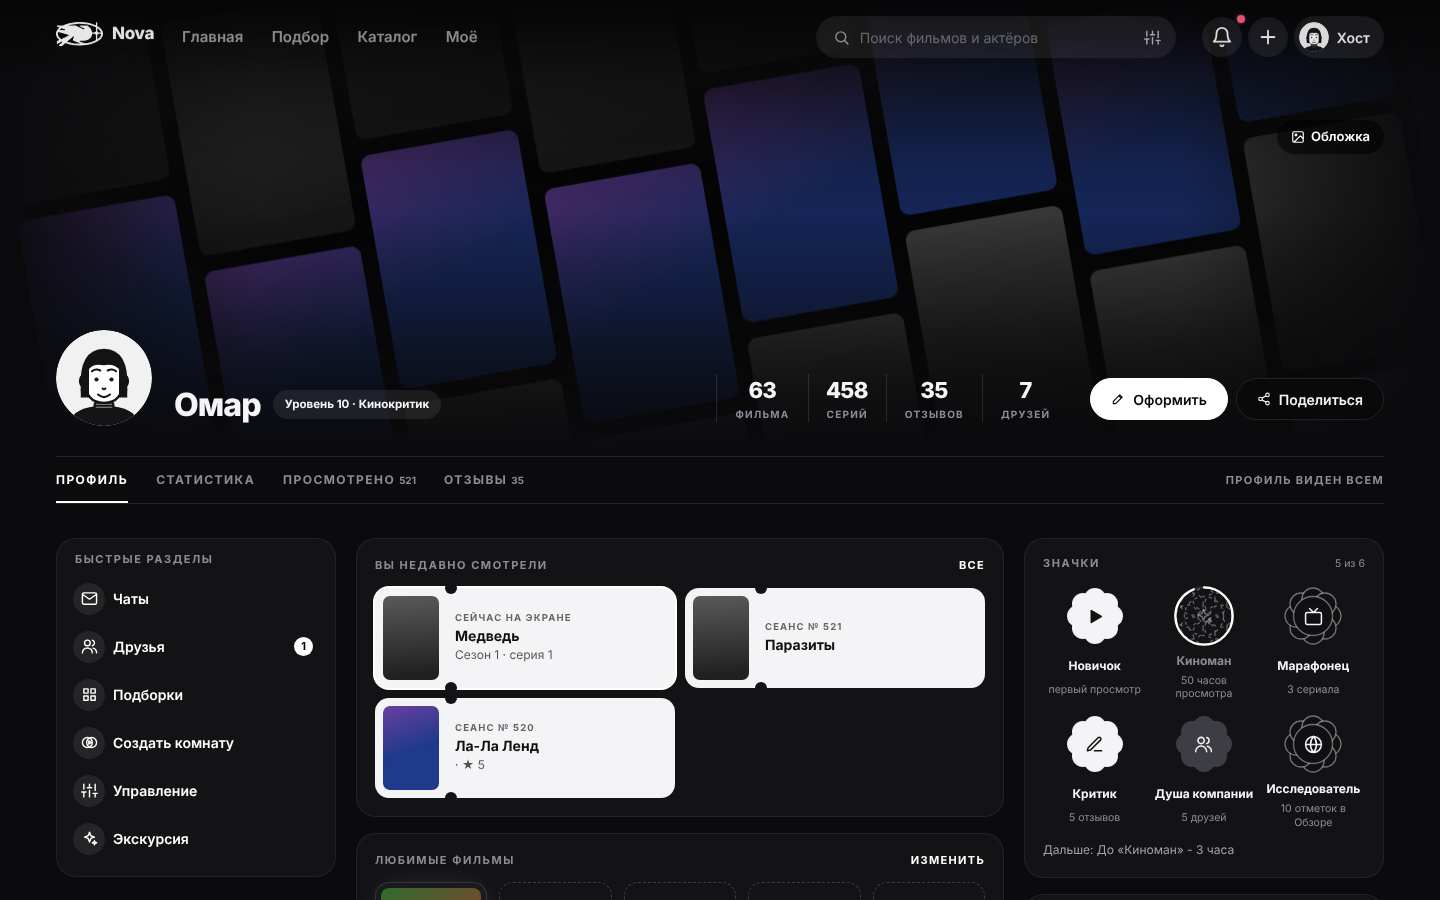
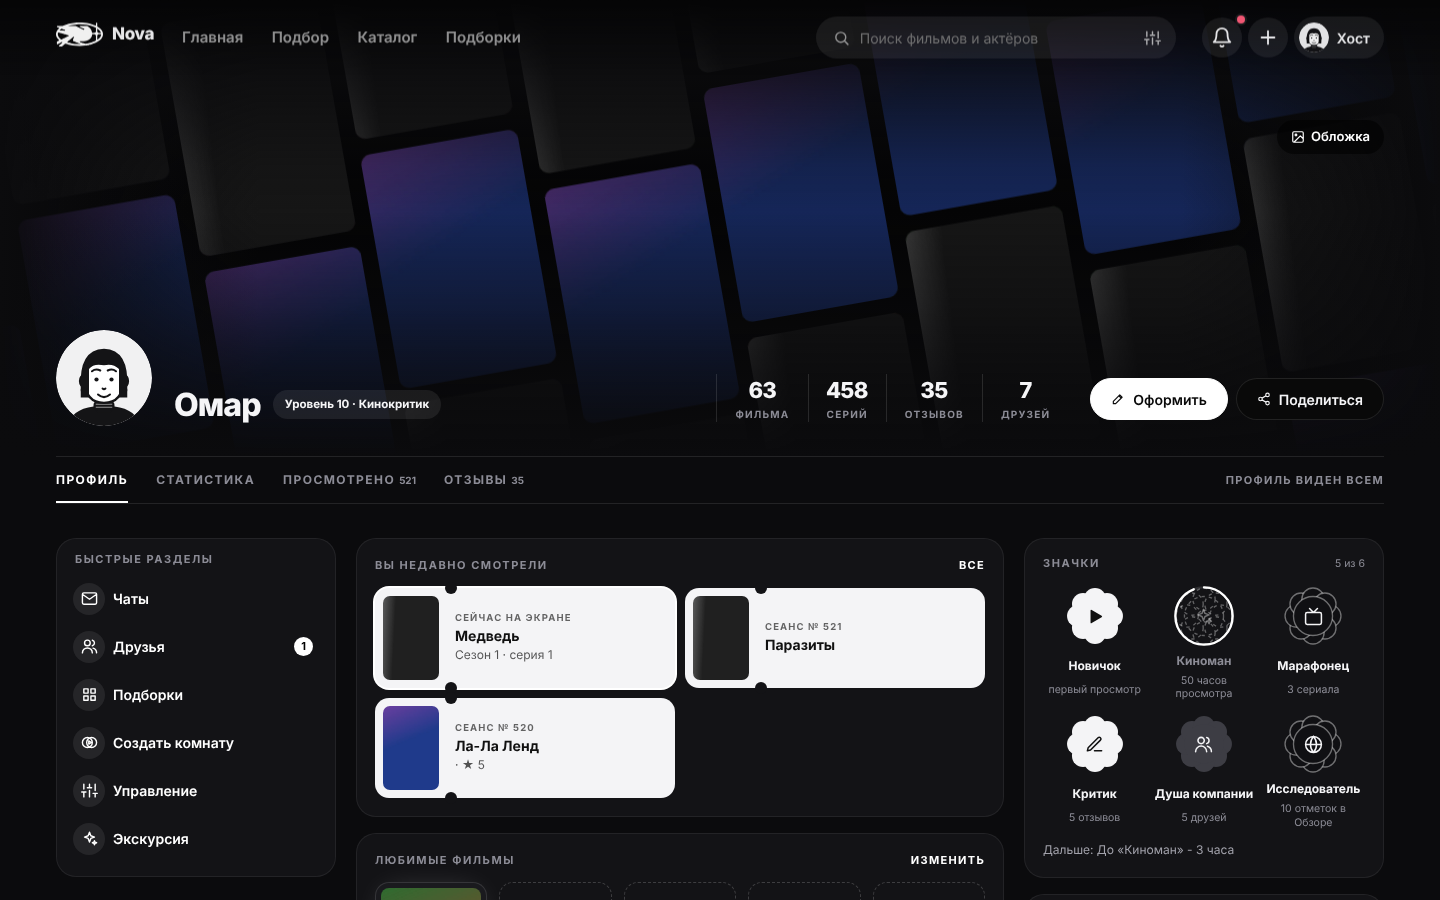
fix: «Подбор» в тестах - точное имя; цифры недели не наезжают на подпись; постеры «Подборок» растут с экраном
Claude-Session: https://claude.ai/code/session_01PdbNxM7NLLp2d2uKGuEVkW

diff --git a/web/e2e/unified.spec.ts b/web/e2e/unified.spec.ts
@@ -17,9 +17,9 @@ const desk = (page: Page) => page.viewportSize()!.width > 1000;
 const top = (page: Page) => page.getByRole('navigation', { name: 'Разделы кинотеатра' });
 /** Перейти в раздел: на телефоне и планшете - нижней панелью, на компьютере - шапкой («Витрина»). */
 async function goTo(page: Page, name: 'Подборки' | 'Подбор' | 'Каталог' | 'Профиль') {
-  if (!desk(page)) return bar(page).getByRole('link', { name }).click();
+  if (!desk(page)) return bar(page).getByRole('link', { name, exact: name === 'Подбор' }).click();
   if (name === 'Профиль') return page.getByRole('link', { name: 'Мой профиль' }).click();
-  return top(page).getByRole('link', { name }).click();
+  return top(page).getByRole('link', { name, exact: name === 'Подбор' }).click();
 }
 
 test('разделы: внизу на телефоне и планшете, сверху на компьютере', async ({ page }) => {
@@ -47,7 +47,7 @@ test('разделы: внизу на телефоне и планшете, св
     await expect(bar(page)).not.toHaveCSS('background-color', 'rgba(0, 0, 0, 0)');
     const box = await bar(page).boundingBox();
     expect(box!.y + box!.height).toBeGreaterThan(height - 2);
-    for (const name of ['Главная', 'Подбор', 'Каталог', 'Подборки', 'Профиль']) await expect(bar(page).getByRole('link', { name })).toBeVisible();
+    for (const name of ['Главная', 'Подбор', 'Каталог', 'Подборки', 'Профиль']) await expect(bar(page).getByRole('link', { name, exact: name === 'Подбор' })).toBeVisible();
   }
   // Аватарного меню в шапке больше нет: профиль - ссылка.
   await expect(page.getByRole('button', { name: /^Меню/ })).toHaveCount(0);

diff --git a/web/src/routes/my/+page.svelte b/web/src/routes/my/+page.svelte
@@ -205,7 +205,8 @@
   .chip[aria-pressed='true'] { background: #fff; color: #000; }
   .sp { flex: 1; }
   .find { width: 220px; min-height: 40px; height: 40px; border-radius: 99px; }
-  .grid { display: grid; grid-template-columns: repeat(auto-fill, minmax(156px, 1fr)); gap: 24px 16px; }
+  /* Постер - `--pw`, растёт с шириной окна, как в рядах сайта. */
+  .grid { display: grid; grid-template-columns: repeat(auto-fill, var(--pw)); gap: 24px 16px; }
   .more { display: flex; justify-content: center; margin-top: 24px; }
 
   .row { display: flex; align-items: baseline; gap: 14px; margin: 52px 0 18px; font-size: 26px; font-weight: 800; letter-spacing: -0.02em; }
@@ -234,7 +235,7 @@
     .n { font-size: 40px; }
     .tile b { font-size: 16px; }
     .fan { top: 12px; width: 50%; }
-    .grid { grid-template-columns: repeat(3, minmax(0, 1fr)); gap: 16px 10px; }
+    .grid { gap: 16px 10px; }
     .lists { grid-template-columns: repeat(2, minmax(0, 1fr)); gap: 18px 12px; }
     .find { flex: 1; width: auto; min-width: 0; }
   }

diff --git a/web/src/lib/admin/Live.svelte b/web/src/lib/admin/Live.svelte
@@ -296,7 +296,7 @@
   .facts { display: flex; flex-wrap: wrap; gap: 18px 0; }
   .facts div { padding: 0 32px; border-left: 1px solid var(--line); }
   .facts div:first-child { padding-left: 0; border-left: 0; }
-  .facts strong { display: block; font-size: 44px; font-weight: 900; letter-spacing: -0.04em; line-height: 1; font-variant-numeric: tabular-nums; }
+  .facts strong { display: block; margin-bottom: 4px; font-size: 44px; font-weight: 900; letter-spacing: -0.04em; line-height: 1.1; font-variant-numeric: tabular-nums; }
   .facts span { color: var(--muted); font-size: 14px; }
 
   .poster { flex: none; width: 168px; color: inherit; }
